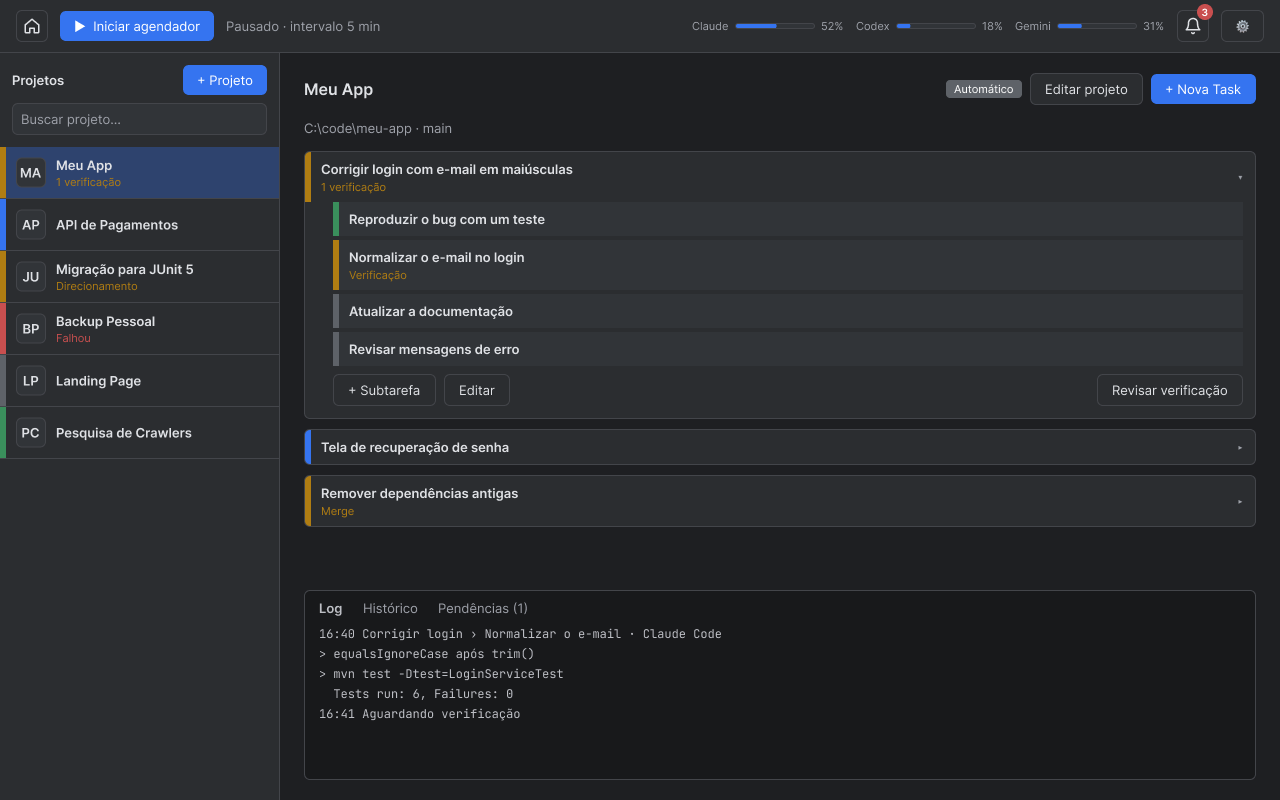
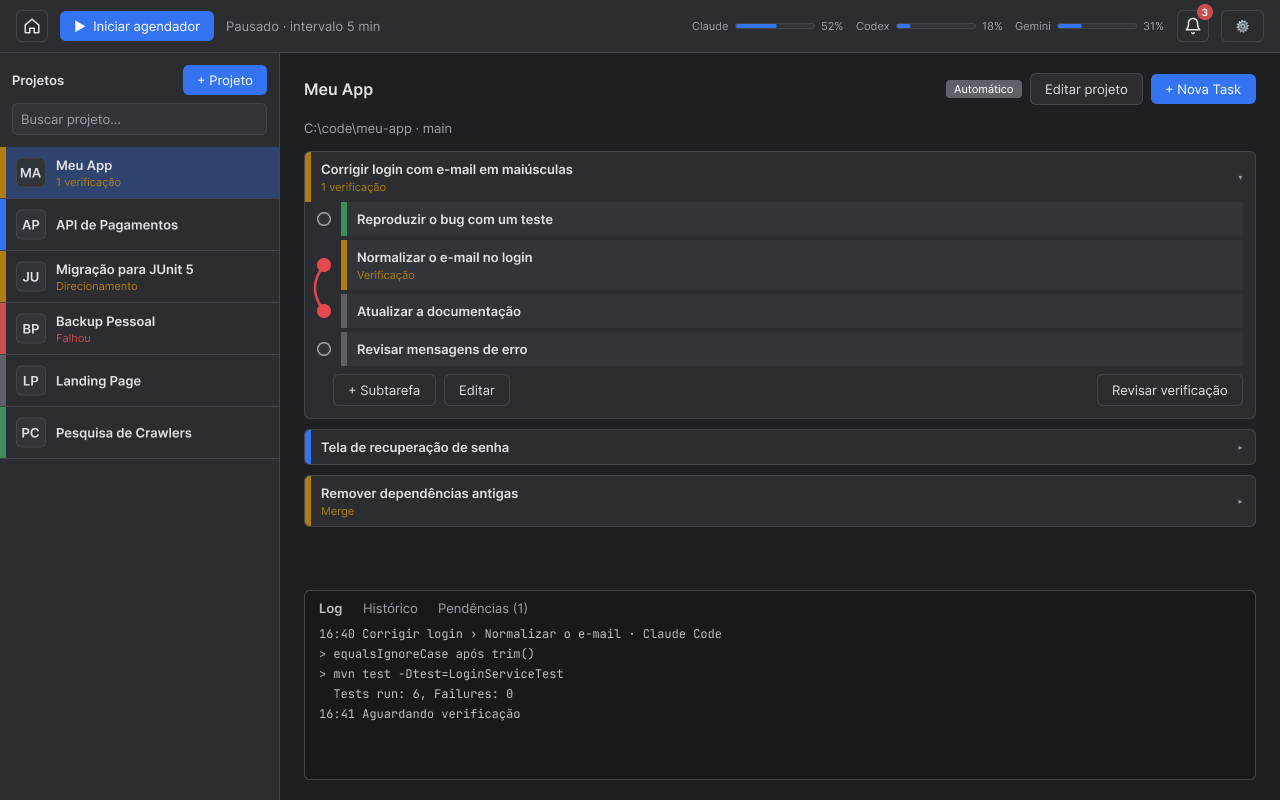
Dependências amarradas com fio, distribuição como .exe e imagem atualizada
- Subtarefas amarradas por círculo e fio vermelho (interfaces, ui, funcionalidades)
- D-43: .exe com Java embutido e reduzido via jpackage/jlink, ícone próprio
- Imagem da tela de projeto atualizada no README

Changed region(s): [[0.25, 0.25, 0.4375, 0.4688], [0.3438, 0.4375, 0.4062, 0.4688]]

diff --git a/docs/arquitetura.md b/docs/arquitetura.md
@@ -39,6 +39,24 @@
 | Interface | Swing + **FlatLaf** (`FlatDarkLaf`) — D-13, D-25 |
 | Pacote raiz | `io.github.luanfrombrazil.overtimedispatcher` — D-37 |
 | Notificações com botões | biblioteca nativa de toast do Windows, a escolher (A-15) — D-41 |
+| Distribuição | `.exe` com Java embutido e reduzido (`jpackage` + `jlink`) — D-43 |
+
+## Build e distribuição
+
+| Uso | Comando | Resultado |
+|---|---|---|
+| Desenvolvimento | `mvn package` | `overtime-dispatcher.jar` (precisa de Java 25 instalado) |
+| Uso final | `mvn package -Pdistribuicao` | `OvertimeDispatcher.exe` numa pasta com um Java reduzido só aos módulos usados (sem precisar de Java instalado) |
+| Instalador (opcional) | mesmo perfil, com o WiX Toolset instalado | instalador que cria atalho no menu Iniciar, aparece em "Adicionar ou remover programas" e registra a identidade da app para as notificações com botões |
+
+**Ícone próprio** (nenhum símbolo do Java):
+
+| Onde | Como |
+|---|---|
+| `.exe` e atalhos | `.ico` passado ao `jpackage --icon` |
+| Janela e barra de tarefas | `setIconImages` com PNGs de 16, 32, 48 e 256 px |
+| Bandeja | `TrayIcon` com PNG de 16/32 px, uma variação por estado (normal, executando, precisa de você) |
+| Notificações | ícone do atalho registrado pelo instalador |
 
 ## Pacotes
 

diff --git a/docs/modulos/ui.md b/docs/modulos/ui.md
@@ -35,6 +35,8 @@ ui
 │   ├─ LinhaProjeto                linha de altura fixa: borda de estado, ícone, nome, motivo
 │   ├─ ProjetoDetailPanel          cabeçalho do projeto + cartões de Task + console
 │   ├─ TaskCard                    Task com borda de estado; expandida mostra subtarefas e ações
+│   ├─ NoDependencia               círculo da subtarefa onde se amarra o fio
+│   ├─ FioDependencia              curva vermelha desenhada entre dois nós (Graphics2D)
 │   ├─ ProjetoLogPanel             console do projeto: Log · Histórico · Pendências
 │   └─ ProjetoDialog               criar/editar projeto
 ├─ task/
@@ -68,6 +70,8 @@ ui
 | Abrir projeto | Clique em `LinhaProjeto` |
 | Expandir Task | Clique no `TaskCard` |
 | Reordenar Tasks e subtarefas | **Arrastar e soltar** (sem botões de seta) |
+| Criar dependência | Arrastar do círculo de uma subtarefa até o de outra; aparece um fio vermelho (`FioDependencia`) |
+| Remover dependência | Clicar no fio › Desamarrar |
 | Executar uma subtarefa agora | Menu de contexto (botão direito) na subtarefa |
 | Ver notificações | Sino na `BarraSuperior`; o contador mostra as não lidas |
 | Fechar a janela | Vai para a bandeja; a app continua trabalhando |

diff --git a/docs/decisoes.md b/docs/decisoes.md
@@ -49,6 +49,8 @@ Registro curto de decisões. Ao fechar uma decisão em aberto, mova-a para **Tom
 | D-41 | Notificações do Windows **com botões de ação** (Aprovar, Rejeitar, Responder), via biblioteca nativa de toast; o clique continua abrindo a pendência (antiga A-14) | Responder sem abrir a app |
 | D-42 | Opções do **Claude Code confirmadas** na versão 2.1.308: `-p`, `--output-format json/stream-json`, `-r`, `--session-id`, `--permission-mode`, `--allowedTools`, `--model`, `--effort` (low, medium, high, xhigh, max), `--mcp-config` (parte da antiga A-09) | Adaptador da fase 2 pode ser implementado sem suposições |
 
+| D-43 | Distribuição final como **`.exe` com Java embutido e reduzido**, gerado pelo `jpackage` com `jlink` (só os módulos usados); ícone próprio no `.exe`, na janela, na bandeja e nas notificações; durante o desenvolvimento, `.jar` (29/10/2026) | Quem usa não precisa instalar Java; nenhum símbolo do Java aparece; o atalho registrado permite notificações com botões (D-41) |
+
 ## Em aberto
 
 | # | Pergunta | Situação | Necessária para |

diff --git a/docs/funcionalidades.md b/docs/funcionalidades.md
@@ -21,7 +21,7 @@ Lista de funcionalidades por área. A coluna **Fase** remete ao [roadmap](roadma
 | F-03 | Adicionar, editar, remover e reordenar subtarefas (arrastar e soltar) | 1 |
 | F-04 | Definir instrução, critério de aceite e "requer verificação" por subtarefa | 1 |
 | F-05 | Tasks do projeto em cartões, ordenadas por prioridade, com estado por borda | 1 |
-| F-17 | Dependências entre subtarefas ("depende de"), com bloqueio de ciclos | 1 |
+| F-17 | Dependências entre subtarefas, criadas amarrando os círculos com um fio vermelho; bloqueio de ciclos | 1 |
 | F-18 | Escolher "Provedor · modelo" por Task, com padrão no projeto | 2 |
 | F-06 | Pausar e retomar uma Task | 3 |
 | F-07 | Cancelar e reabrir subtarefa | 2 |

diff --git a/docs/roadmap.md b/docs/roadmap.md
@@ -38,6 +38,8 @@ Cada fase entrega algo utilizável. Os IDs remetem a [funcionalidades](funcional
 - Home: números, mapa de atividade, última sessão, precisa de você, últimas 14 noites.
 - F-06, F-25, F-26, F-40 a F-47, F-65A, F-66 a F-69, F-71, F-73 a F-75, F-85, F-90 a F-95.
 
+> A partir da fase 3, cada fase também gera o `.exe` com Java embutido (D-43), já com o ícone próprio, para uso no dia a dia.
+
 ## Fase 4 — Verificação manual e multiagente
 
 **Entrega:** subtarefas que exigem conferência param e esperam você na tela; Codex e Gemini entram como provedores.
